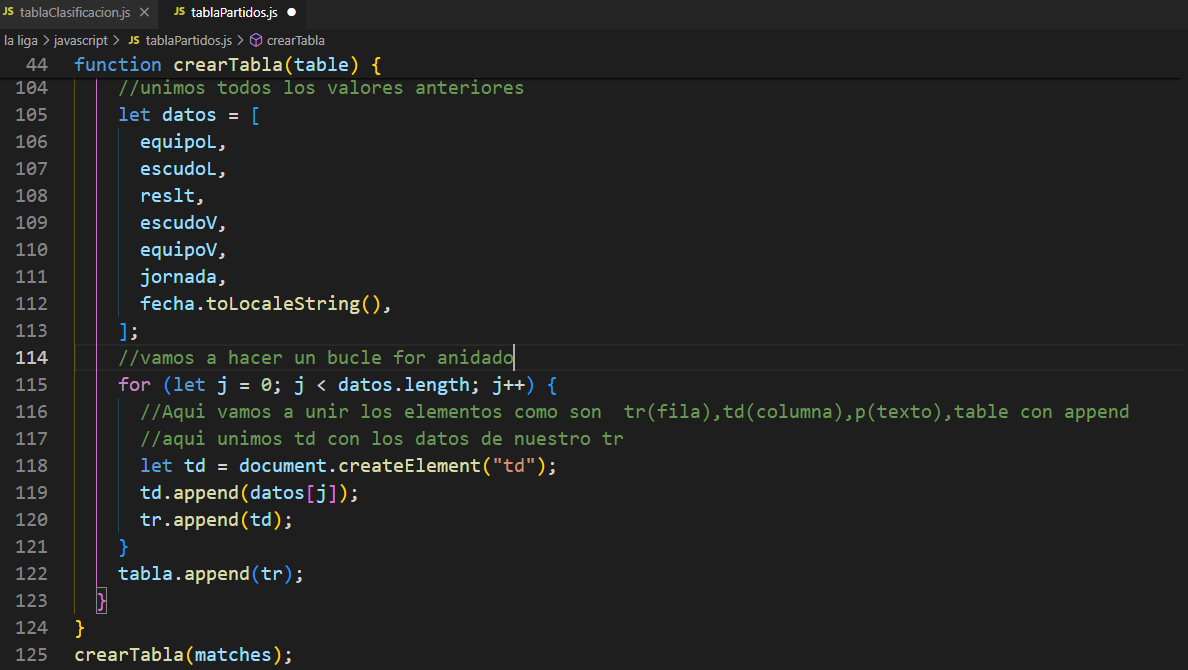
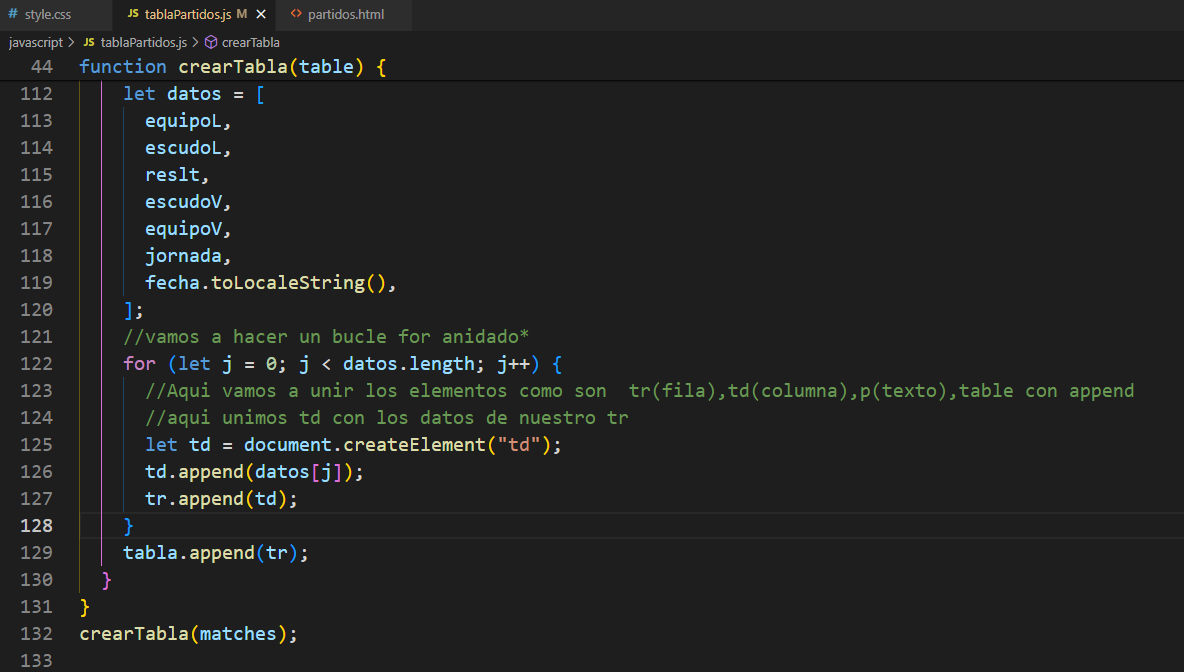
la liga

Changed region(s): [[0.0, 0.0, 0.9688, 1.0]]

diff --git a/javascript/tablaPartidos.js b/javascript/tablaPartidos.js
@@ -76,15 +76,7 @@ function crearTabla(table) {
       "https://crests.football-data.org/" + table[i].awayTeam.id + ".svg"
     );
     escudoV.classList.add("imagen");
-
     // console.log(equipoV);
-
-    //resultado equipo Local
-    // let reslt = document.createElement("p");
-    // reslt.innerHTML =
-    //   table[i].score.fullTime.homeTeam + "-" + table[i].score.fullTime.awayTeam;
-    // reslt.classList.add("centrado");
-
     let reslt =
       table[i].score.fullTime.homeTeam +
       " - " +
@@ -169,7 +161,6 @@ function filtrado(equipoS) {
     }
   });
   console.log(datosEquipo);
-
   if (datosEquipo.length === 0) {
     return (
       (alerta1.style.display = "block"),
